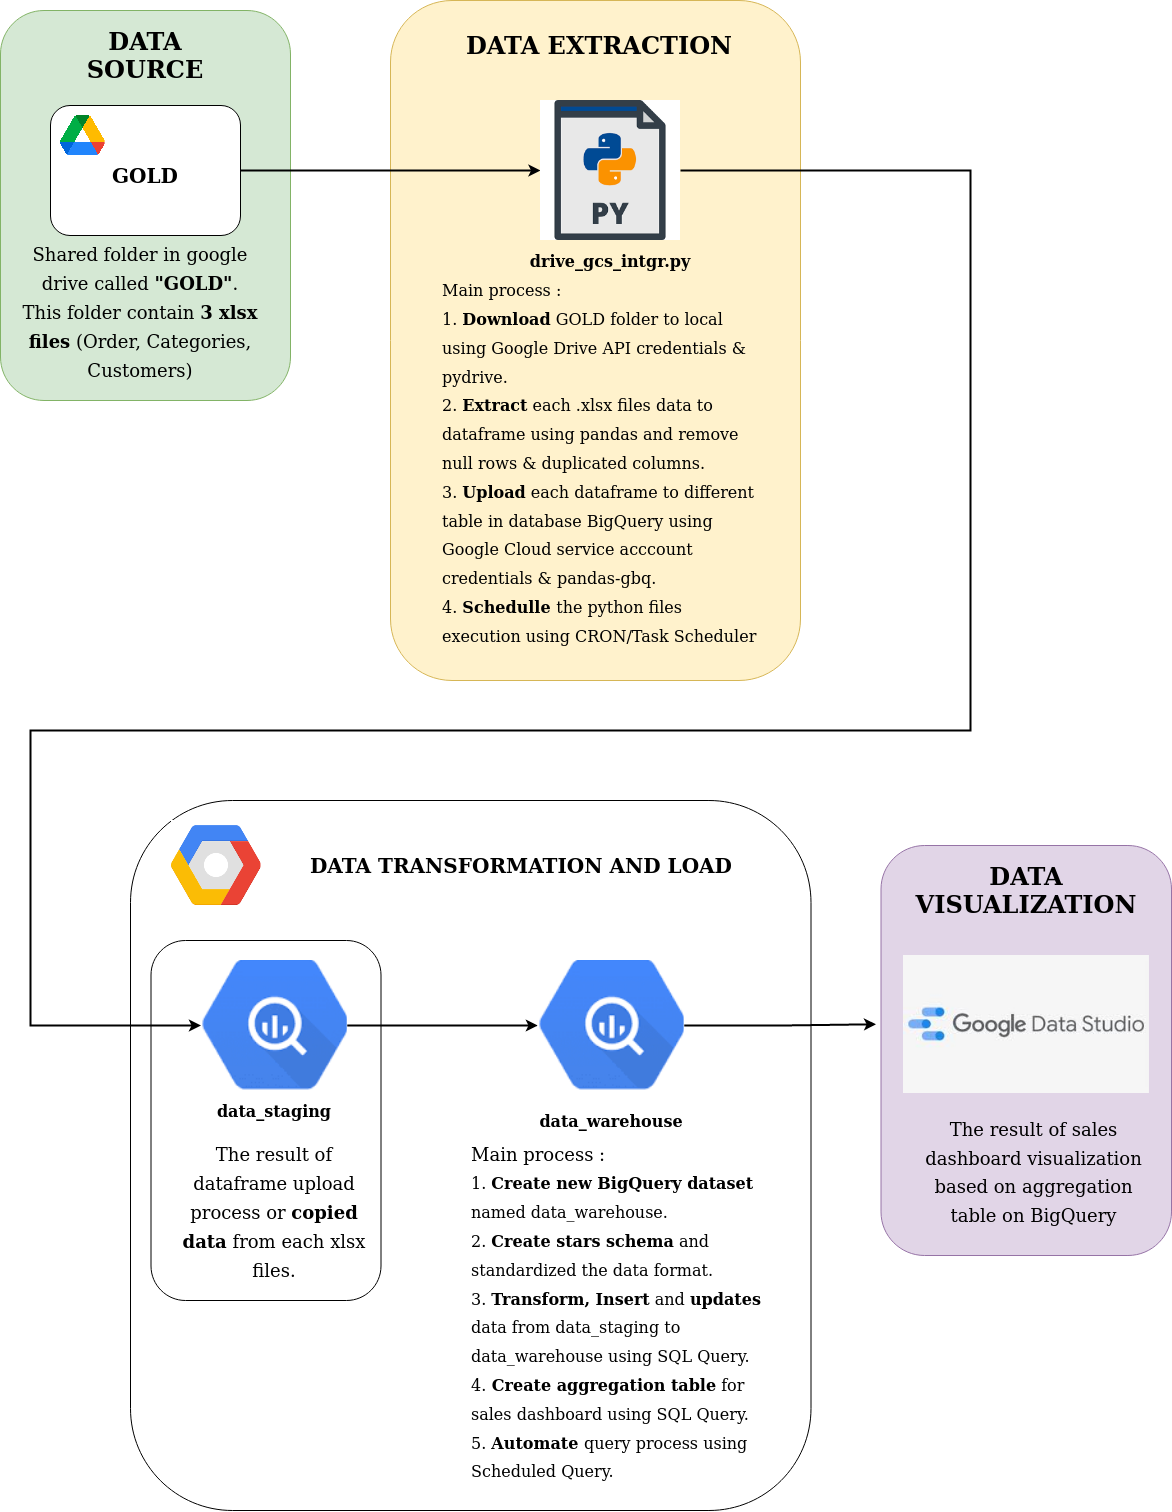
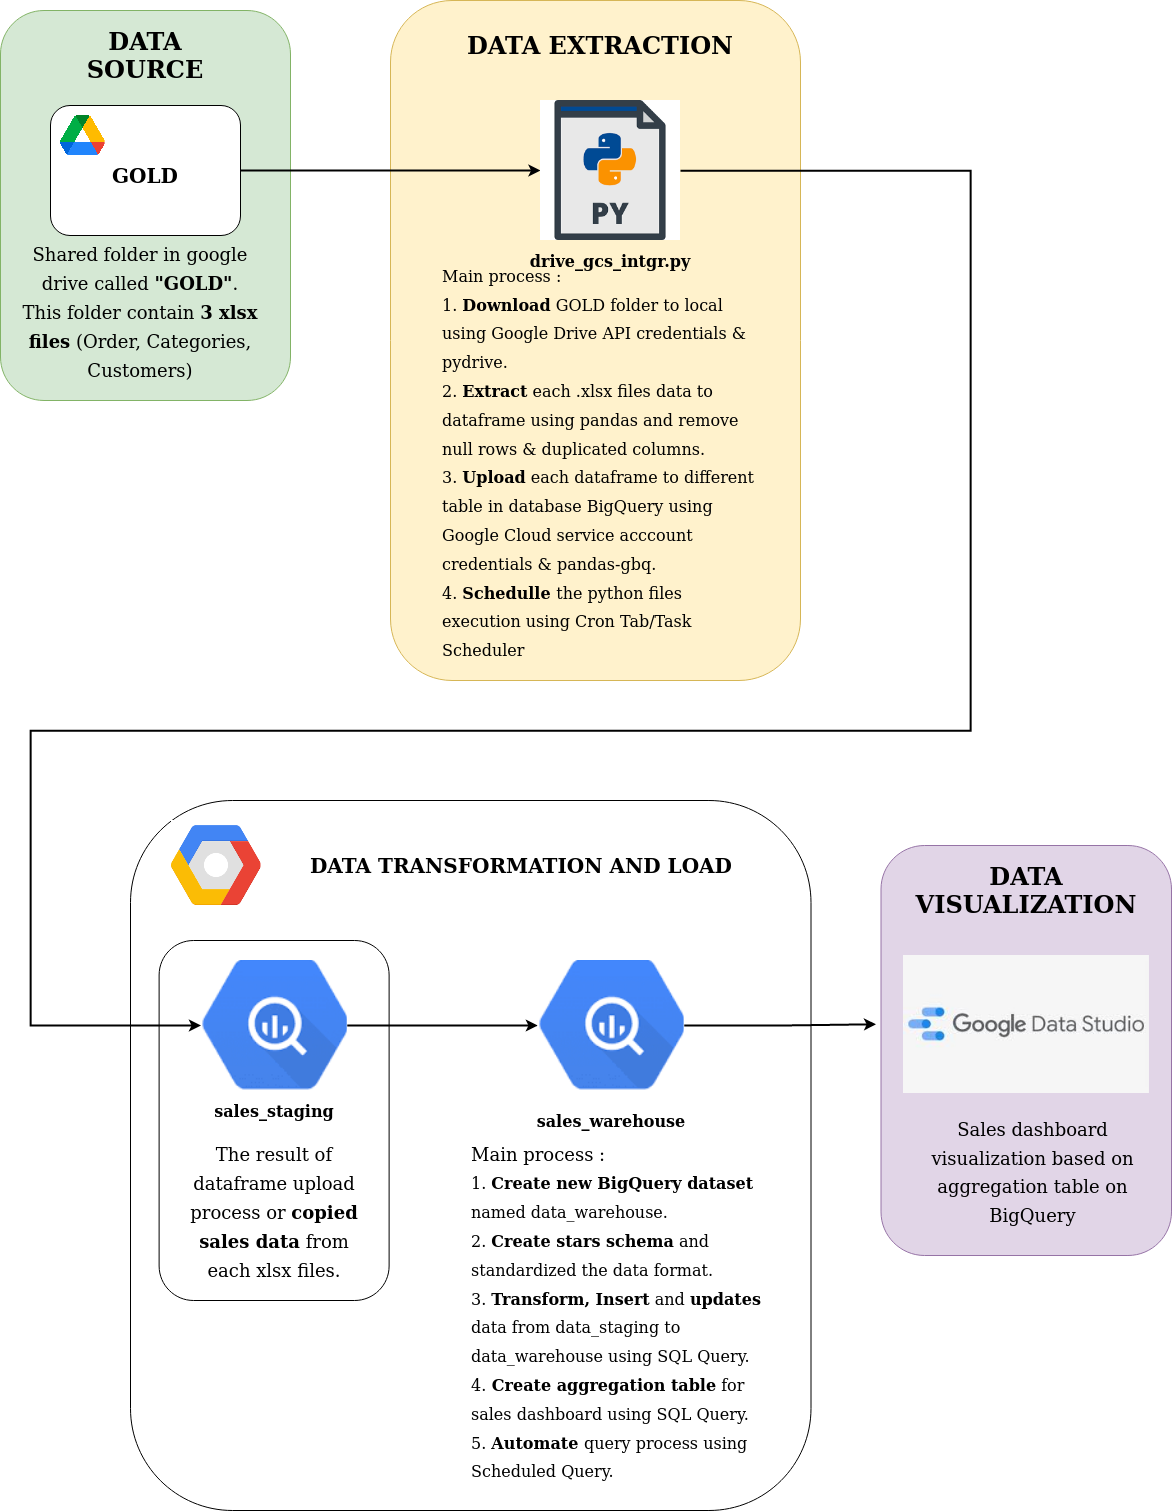
new updates

diff --git a/README.md b/README.md
@@ -13,14 +13,14 @@ Table of Content
     - [Data Extraction](#data-extraction)
     - [Data Transform and Load](#data-transform-and-load)
     - [Data Visualization](#data-visualization)
-  - [Further Improvements](#further-improvements)
+  - [Further Improvements](#further-improvements)V
   - [Special Thanks](#special-thanks)
 
 
 ## Project Overview
 <p>This project contains the process of retrieving, cleaning, and standardizing data from flat files and designing a data warehouse in Google BigQuery so we can use it to build superstore sales visualization dashboards (monthly, quarterly and yearly).</p> 
 
-<p>There are 3 main process of this project. First, we use python to automate flat files extraction process from Google Drive and load it to data staging Google BigQuery. Secondly, we are transform the data staging and implement SCD (Slowly Changing Dimension) Type 2 to build data warehouse in Google BigQuery, back up data warehouse to Google Storage using SQL Query and schedule it monthly using BigQuery Scheduler. At the end, we will use Google Data Studio to build superstore sales visualization dashboard.</p>
+<p>There are 3 main process of this project. First, we use python to automate flat files extraction process from Google Drive and load it to data staging Google BigQuery. Secondly, we are transform the data staging and build data warehouse in Google BigQuery, schedule it monthly using BigQuery Scheduler. At the end, we will use Google Data Studio to build superstore sales visualization dashboard.</p>
 
 ## Dataset
 
@@ -45,6 +45,9 @@ Table of Content
 - **Programming Language** : Pyhton, SQL
 
 ## Project Architecture
+<p align="center">
+  <img src="Images/data_architecture.png" style="border: 1px solid black;width:600px;height:800px" alt="Data Source" >
+</p>
 
   ### Data Extraction
   
@@ -56,7 +59,7 @@ Table of Content
   - **get_folder()** is used to get the folder link and download it from Google Drive via pydrive with gdown library. Authentication process using gdrive_auth() and specific folder names may be required to execute this function. Here is the repository of gdown : [link](https://github.com/wkentaro/gdown)
   - **clean_name()** is used to get clean name of flat files. So we can create pandas dataframe and data staging based on each flat files name.
   - **excel_files_to_pandas()** is used to convert each flat files or excel files to dataframe using pandas and put it together into python dictionary.  
-  - **main()** is used to execute authentication, download and flat files extraction process into python dictionary. Then, load each dataframe in dictionary to data staging in BigQuery with table name = cleaned flat file name. In loading data process from dataframe to BigQuery, we implement slowly changing dimension type 1 or replace old tables with new tables.  
+  - **main()** is used to execute authentication, download and flat files extraction process into python dictionary. Then, load each dataframe in dictionary to data staging in BigQuery with table name = cleaned flat file name. Replace old tables with new tables if exist.  
 
 
 
@@ -71,15 +74,25 @@ Table of Content
   <img src="Images/orders_staging.png" style="border: 1px solid black" alt="Orders Staging" >
   </p>
 
-  Here is the **data staging physical design** : 
-  <p align="center">
-
-  <img src="Images/data_staging_design.png" style="border: 1px solid black" alt="Data Staging Design" >
-  </p>
-
-
-
   ### Data Transform and Load
+
+  **1. Create Empty Fact and Dimension Table Based on Data Warehouse Modeling**
+    Main Step: 
+      - Design a star schema data model for data warehouse using SQLDBM(https://app.sqldbm.com).
+      - Create sales_warehouse dataset in BigQuery.
+      - Create empty fact and dimension table with each schemas based designed data model. 
+    
+  The Result:  
+
+  <p align="center">
+      <img src="Images/data_warehouse_design.png" style="border: 1px solid black" alt="Data Staging Design" >
+  </p> 
+    
+
+  2. Data Staging to Data Warehouse Query (Inflow)
+  3. Data Warehouse to Aggregation Table Query (Upflow)
+  4. Backup Data Warehouse to Google Storage (Downflow)
+
   ### Data Visualization
 
 ## Further Improvements
